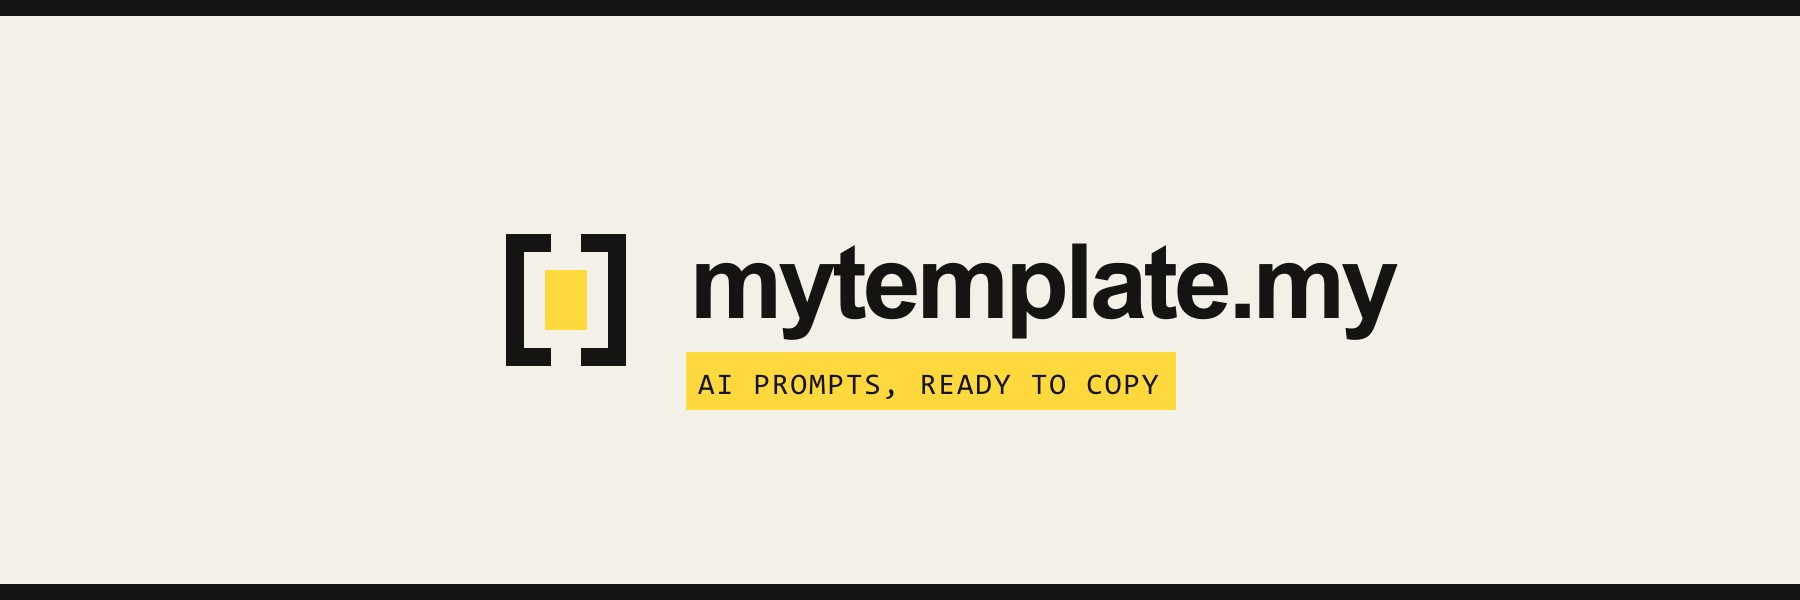
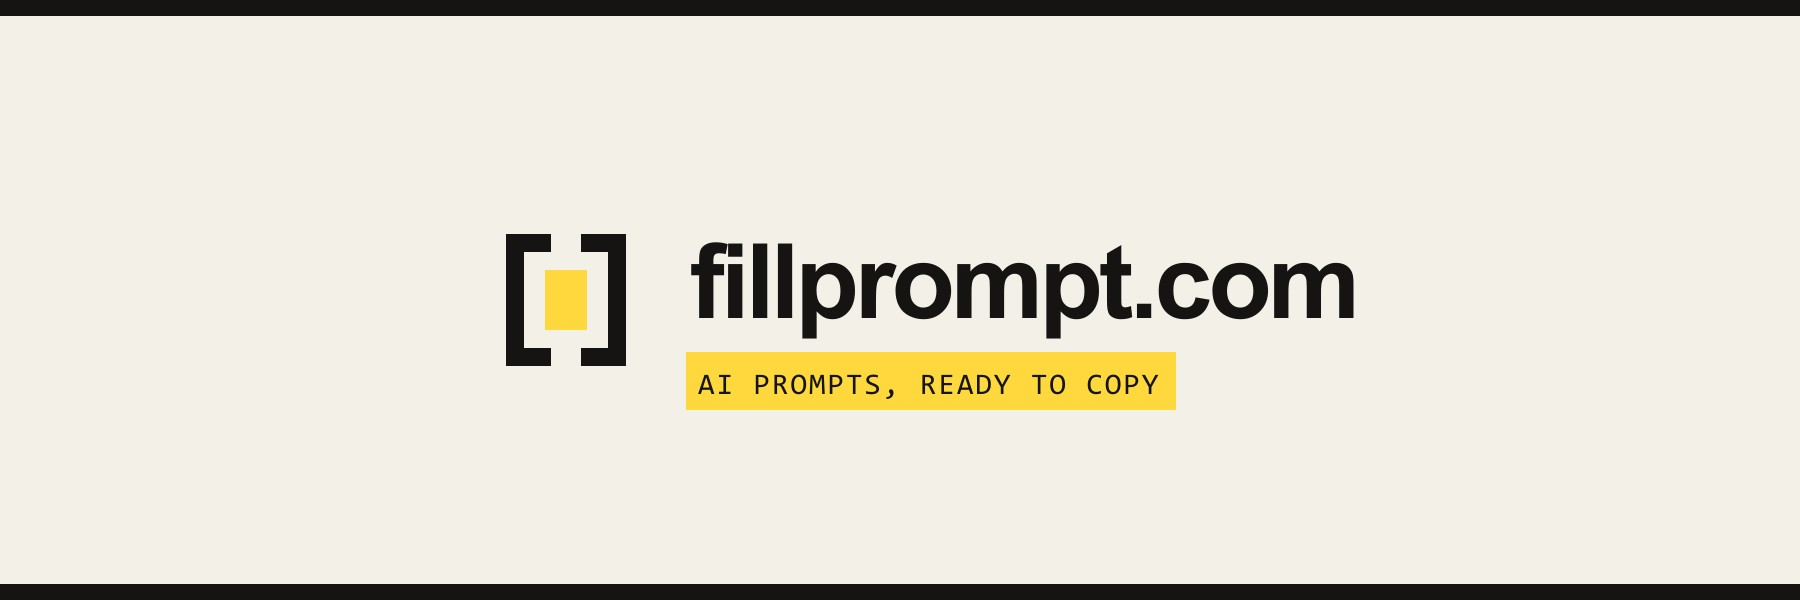
Rename the site to fillprompt.com and animate the hero sheet
- New domain fillprompt.com; mytemplate.my and both www hosts redirect to it
- Wordmark, titles, structured data, robots.txt, llms.txt, README and brand images use the new name
- Hero tiles take turns wiping to another prompt from their category, with a moving highlight and progress bar; pauses on hover and respects reduced motion

Changed region(s): [[0.3733, 0.39, 0.7778, 0.57]]

diff --git a/src/i18n.ts b/src/i18n.ts
@@ -69,7 +69,7 @@ const en = {
     strip: 'Free · no account · open source',
   },
 
-  homeTitle: 'mytemplate.my · Ready-made AI prompts, free',
+  homeTitle: 'fillprompt.com · Ready-made AI prompts, free',
   hero: {
     label: 'Open-source collection · free',
     line1: 'AI prompts for',
@@ -211,8 +211,8 @@ const en = {
     title: 'Questions and answers',
     items: [
       [
-        'What is mytemplate.my?',
-        'mytemplate.my is a free library of ready-made AI prompts for generating images, making videos and writing with AI, plus skills for AI agents. Every prompt comes from an open-source collection, names its original author and, where there is one, shows the result it produced.',
+        'What is fillprompt.com?',
+        'fillprompt.com is a free library of ready-made AI prompts for generating images, making videos and writing with AI, plus skills for AI agents. Every prompt comes from an open-source collection, names its original author and, where there is one, shows the result it produced.',
       ],
       [
         'Is it really free?',
@@ -235,15 +235,15 @@ const en = {
 
   support: {
     title: 'Enjoying the prompts?',
-    body: 'mytemplate.my is free with no account and no ads. A small donation helps cover the domain and hosting.',
+    body: 'fillprompt.com is free with no account and no ads. A small donation helps cover the domain and hosting.',
     cta: 'Support this site',
   },
 
   donate: {
     label: 'Support',
-    metaTitle: 'Support mytemplate.my · Donate',
-    metaDesc: 'mytemplate.my is free, with no account and no ads. If it saved you time, support it with a small donation via DuitNow QR or Ko-fi.',
-    h1a: 'Keep mytemplate.my',
+    metaTitle: 'Support fillprompt.com · Donate',
+    metaDesc: 'fillprompt.com is free, with no account and no ads. If it saved you time, support it with a small donation via DuitNow QR or Ko-fi.',
+    h1a: 'Keep fillprompt.com',
     h1b: 'free for everyone',
     intro: 'No account, no ads, no paywall. If a prompt here saved you time, a small donation helps cover the domain, hosting and the work of adding new prompts.',
     thanks: 'Terima kasih!',
@@ -278,8 +278,8 @@ const en = {
 
   credits: {
     title: 'Sources, licenses & credits',
-    metaDesc: 'The open-source projects behind the content on mytemplate.my, with their licenses.',
-    lead: 'The content on mytemplate.my is collected from the open-source projects below. Every prompt shows its original author and a link to its source. Some titles are shortened and categories regrouped; prompt text is unchanged.',
+    metaDesc: 'The open-source projects behind the content on fillprompt.com, with their licenses.',
+    lead: 'The content on fillprompt.com is collected from the open-source projects below. Every prompt shows its original author and a link to its source. Some titles are shortened and categories regrouped; prompt text is unchanged.',
     thCollection: 'Collection',
     thBy: 'By',
     thLicense: 'License',
@@ -291,7 +291,7 @@ const en = {
     communityNote: (c: number) => `The Skills page also links to ${n(c)} community skill repositories. Only their names, descriptions and licenses are shown; the skills themselves stay in their own repositories.`,
     perSkill: 'Per-skill license',
     imagesTitle: 'About the sample images',
-    imagesBody: 'Sample images and video clips are displayed directly from the original collections’ servers and remain the property of their authors. mytemplate.my does not store copies of them.',
+    imagesBody: 'Sample images and video clips are displayed directly from the original collections’ servers and remain the property of their authors. fillprompt.com does not store copies of them.',
     takedownTitle: 'Request content removal',
     takedownA: 'If you own a prompt or image and want it removed, email',
     takedownB: 'with the link to the page. We will remove it as soon as possible.',

diff --git a/src/styles/global.css b/src/styles/global.css
@@ -1,7 +1,7 @@
 @import 'tailwindcss';
 
 /*
-  Brand: mytemplate.my
+  Brand: fillprompt.com
   Idea: a template is a blank waiting to be filled — [ ] with a highlighter mark.
   Palette: paper, ink, one highlighter yellow. Vermilion only for tiny signals.
   Shapes: square corners, ink rules, no soft shadows, no gradients.
@@ -152,9 +152,59 @@ mark {
   .tile-img {
     @apply relative block border border-ink/15 bg-line/50 transition-[transform,box-shadow] duration-150;
   }
-  .tile:hover .tile-img {
+  .tile:hover .tile-img,
+  .hero-tile.is-live .tile-img {
     transform: translate(-3px, -3px);
     box-shadow: 6px 6px 0 var(--color-mark), 6px 6px 0 1px var(--color-ink);
+  }
+  .hero-tile .tile-img {
+    transition-duration: 300ms;
+  }
+  /* Hero sheet: two stacked layers; the incoming one wipes up from the bottom and settles from a slight zoom. */
+  .hero-layer {
+    position: absolute;
+    inset: 0;
+    width: 100%;
+    height: 100%;
+    object-fit: cover;
+    clip-path: inset(100% 0 0 0);
+    transform: scale(1.12);
+    transition:
+      clip-path 750ms cubic-bezier(0.7, 0, 0.2, 1),
+      transform 1600ms cubic-bezier(0.16, 1, 0.3, 1);
+  }
+  .hero-layer.is-front {
+    z-index: 1;
+    clip-path: inset(0 0 0 0);
+    transform: scale(1);
+  }
+  .hero-layer.is-under {
+    clip-path: inset(0 0 0 0);
+    transform: scale(1);
+    transition: none;
+  }
+  .hero-bar {
+    position: absolute;
+    left: 0;
+    bottom: 0;
+    height: 2px;
+    width: 100%;
+    background: var(--color-mark);
+    transform: scaleX(0);
+    transform-origin: left;
+  }
+  .hero-tile.is-running .hero-bar {
+    animation: hero-bar 9600ms linear forwards;
+  }
+  @keyframes hero-bar {
+    to {
+      transform: scaleX(1);
+    }
+  }
+  @media (prefers-reduced-motion: reduce) {
+    .hero-layer {
+      transition: none;
+    }
   }
   /* ruled rows used for text prompts, categories and skills */
   .row {

diff --git a/src/pages/llms.txt.ts b/src/pages/llms.txt.ts
@@ -9,7 +9,7 @@ export function GET() {
   const srcs = Object.values(sources)
     .map((s) => `- [${s.name}](${s.url}) by ${s.by}, ${s.license}`)
     .join('\n');
-  const body = `# mytemplate.my
+  const body = `# fillprompt.com
 
 > A free library of ${fmt(total)} ready-to-copy AI prompts: ${fmt(images.length)} image prompts, ${fmt(videos.length)} video prompts and ${fmt(texts.length)} text prompts, plus ${skills.length + communitySkills.length} agent skills. No account, no ads, no paywall. Every prompt names its original author and links to its source.
 

diff --git a/src/lib/seo.ts b/src/lib/seo.ts
@@ -2,7 +2,7 @@
 import { href, type Lang } from '../i18n';
 import { excerpt, type ImagePrompt, type TextPrompt, type VideoPrompt, type Source } from './data';
 
-export const SITE = 'https://mytemplate.my';
+export const SITE = 'https://fillprompt.com';
 /** The day the site was built: used where a source gives no date of its own. */
 export const BUILD_DATE = new Date().toISOString().slice(0, 10);
 

diff --git a/README.md b/README.md
@@ -1,8 +1,8 @@
-# mytemplate.my
+# fillprompt.com
 
 A free library of ready-to-copy AI prompts: image prompts, video prompts and text prompts, each shown with the result it produced, plus a directory of skills for AI agents. No account, no ads, no paywall.
 
-Live site: https://mytemplate.my
+Live site: https://fillprompt.com
 
 Every prompt comes from an open-source collection, names its original author and links to its source. Prompts with placeholders such as `[OBJECT]` get input fields, so a visitor fills in the blanks and copies the finished prompt.
 
@@ -90,4 +90,4 @@ The "prompts copied" numbers come from two Supabase database functions, `mt_copy
 
 ## Content removal
 
-If you own a prompt or image shown on the site and want it removed, see https://mytemplate.my/credits#removal.
+If you own a prompt or image shown on the site and want it removed, see https://fillprompt.com/credits#removal.
